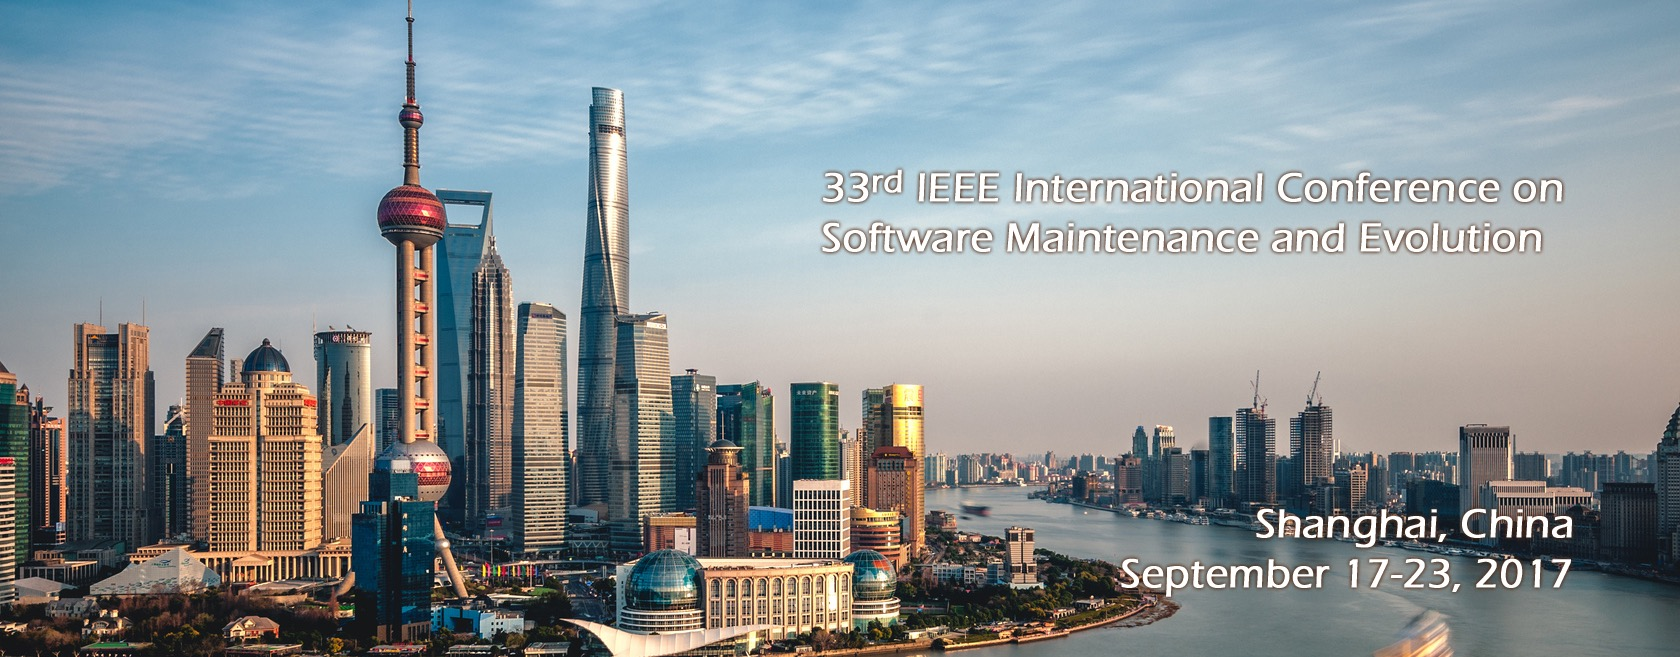
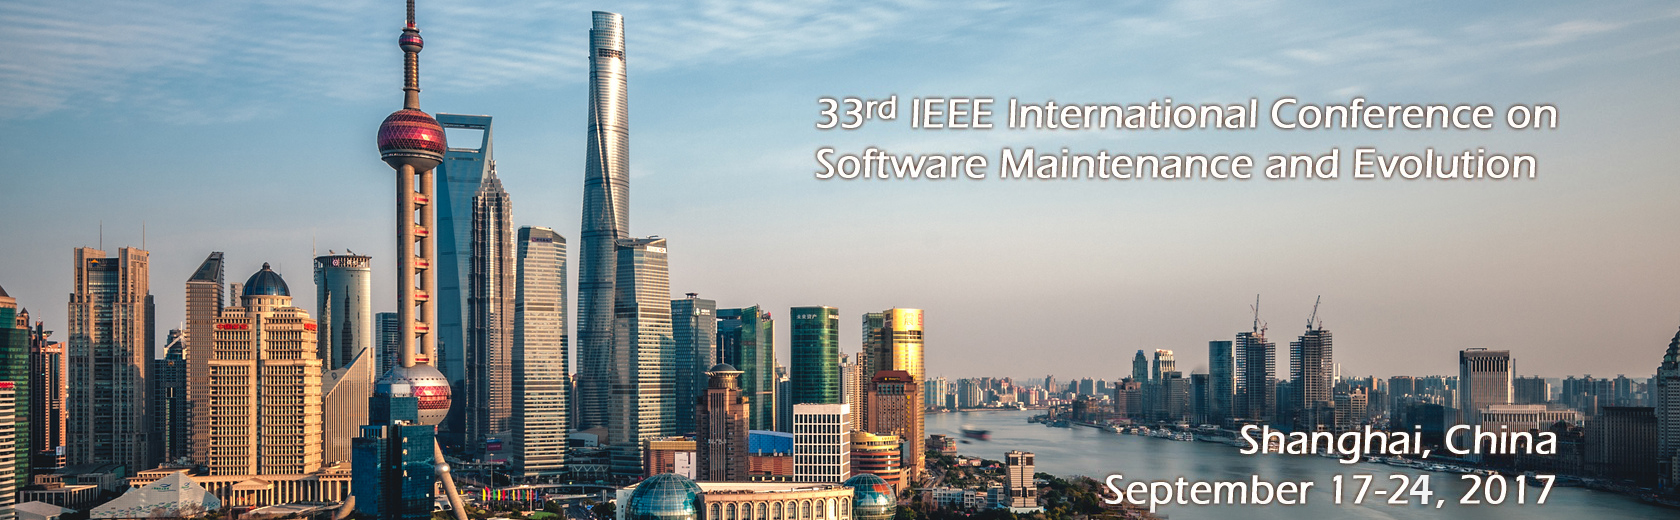
add internet ware week at a glance

diff --git a/index.html b/index.html
@@ -18,6 +18,8 @@
 
       font-weight:bold;
 
+      text-align:left;
+
     }
 
     .newscontentcol {
@@ -26,10 +28,18 @@
 
       padding-left:8px;
 
+      text-align:left;
+
     }
 
   </style>
+<style type="text/css">
+td {
+      text-align:center; /*设置水平居中*/
+      vertical-align:middle !important;/*设置垂直居中*/
+}
 
+</style>
   <script src="jquery/1.11.1/jquery.min.js"></script>
 
   <script src="bootstrap/3.3.0/js/bootstrap.min.js"></script>
@@ -300,11 +310,46 @@
 
 
 
-  <img src="ICSME/001.jpg" class="img-responsive" alt="Responsive image">
+  <img src="ICSME/001.jpg" class="img-responsive " alt="Responsive image">
+  <table class="table table-bordered table-condensed" style="margin-top:5px;font-size:small;">
+            
+            <thead> 
+              
+              <tr>
+                <th class="text-center">Sun 9/17</th>
+                <th class="text-center">Mon 9/18</th>
+                <th class="text-center">Tue 9/19</th>
+                <th class="text-center">Wed 9/20</th>
+                <th class="text-center">Thu 9/21</th>
+                <th class="text-center">Fri 9/22</th>
+                <th class="text-center">Sat 9/23</th>
+                <th class="text-center">Sun 9/24</th>
+              </tr>
+              <tr>
+                <td colspan="2" align="center"><a href="http://www.ieee-scam.org/2017/" target="_blank">SCAM</a></td>
+                <td align="center"><a href="cfp/DoctoralSymposiumCFP.html">Doctoral<br>
+                    Symposium</a>
+                </td>
+                <td colspan="3" rowspan="2" align="center">
+                    ICSME
+                </td>
+                <td rowspan="2" align="center">
+                    <a href="http://www.se.fudan.edu.cn/events/Internetware2017" target="_blank">Internetware</a>
+                </td>
+                <td colspan="3" rowspan="2" align="center" >
+                    China SE<br>
+                    Research and<br>
+                    Industry Summit
+                </td>
+              </tr>
+              <tr>
+                <td></td>
+                <td colspan="2" align="center"><a href="http://vissoft17.dcc.uchile.cl/" target="_blank">VISSOFT</a></td>
+              </tr>
+            </thead>
+          </table>
 
-  <br>
 
-  <br>
 
 
 
@@ -338,9 +383,25 @@
 
                 <tr>
 
+                  <td class="newsdatecol">2017-3-3</td>
+
+                  <td class="newscontentcol"><a href="http://www.se.fudan.edu.cn/events/Internetware2017/" target="_blank">Internetware2017</a> is co-located with ICSME.</td>
+
+                </tr>
+
+                <tr>
+
+                  <td class="newsdatecol">2017-3-3</td>
+
+                  <td class="newscontentcol">China SE Research and Industry Summit is co-located with ICSME.</td>
+
+                </tr>   
+
+                <tr>
+
                   <td class="newsdatecol">2017-2-3</td>
 
-                  <td class="newscontentcol"><a href="cfp/ArtifactsTrackCFP.html">Artifacts Track CFP</a> is available!</td>
+                  <td class="newscontentcol"><a href="cfp/ArtifactsTrackCFP.html" target="_blank">Artifacts Track CFP</a> is available!</td>
 
                 </tr>               
 
@@ -348,7 +409,7 @@
 
                   <td class="newsdatecol">2017-2-3</td>
 
-                  <td class="newscontentcol"><a href="cfp/IndustryTrackCFP.html">Industry Track CFP</a> is available!</td>
+                  <td class="newscontentcol"><a href="cfp/IndustryTrackCFP.html" target="_blank">Industry Track CFP</a> is available!</td>
 
                 </tr>
 
@@ -356,7 +417,7 @@
 
                   <td class="newsdatecol">2016-12-7</td>
 
-                  <td class="newscontentcol"><a href="cfp/DoctoralSymposiumCFP.html">Doctoral Symposium CFP</a> is available!</td>
+                  <td class="newscontentcol"><a href="cfp/DoctoralSymposiumCFP.html" target="_blank">Doctoral Symposium CFP</a> is available!</td>
 
                 </tr>
 
@@ -364,7 +425,7 @@
 
                   <td class="newsdatecol">2016-12-1</td>
 
-                  <td class="newscontentcol"><a href="cfp/NIERTrackCFP.html">NIER Track CFP</a> is available!</td>
+                  <td class="newscontentcol"><a href="cfp/NIERTrackCFP.html" target="_blank">NIER Track CFP</a> is available!</td>
 
                 </tr>
 
@@ -372,7 +433,7 @@
 
                   <td class="newsdatecol">2016-11-28</td>
 
-                  <td class="newscontentcol"><a href="cfp/ResearchTrackCFP.html">Research Track CFP</a> is available!</td>
+                  <td class="newscontentcol"><a href="cfp/ResearchTrackCFP.html" target="_blank">Research Track CFP</a> is available!</td>
 
                 </tr>
 
@@ -380,7 +441,7 @@
 
                   <td class="newsdatecol">2016-10-18</td>
 
-                  <td class="newscontentcol"><a href="cfp/ToolDemoCFP.html">Tool Demo Track CFP</a> is available!</td>
+                  <td class="newscontentcol"><a href="cfp/ToolDemoCFP.html" target="_blank">Tool Demo Track CFP</a> is available!</td>
 
                 </tr>
 

diff --git a/OpenSciencePractices.html b/OpenSciencePractices.html
@@ -1,0 +1,53 @@
+<!DOCTYPE html>
+<html lang="en">
+<head>
+  <title>ICSME 2017</title>
+  <link rel="stylesheet" href="../bootstrap/3.3.0/css/bootstrap.min.css">
+  <script src="../jquery/1.11.1/jquery.min.js"></script>
+  <script src="../bootstrap/3.3.0/js/bootstrap.min.js"></script>
+  <script src="../bootstrap-hover-dropdown/2.0.10/bootstrap-hover-dropdown.min.js"></script>
+</head>
+<body>
+  <script src="../loadhead.js"></script>
+  <script>loadheaderexecute(2);</script>
+
+<div class="container"> 
+
+  <img src="../ICSME/001.jpg" class="img-responsive" alt="Responsive image">
+</div>
+
+  
+<div class="container">
+  <div class="row">
+    <div class="col-md-12">
+          <h2>Open Science Practices</h2>
+          <p style="text-align:justify;"><i>&nbsp &nbsp These guidelines are adapted from the Open Science Practices of the <a href="http://www.chaseresearch.org/workshops">CHASE Workshop series</a>.</i></p>
+          <p style="text-align:justify;">&nbsp &nbsp We encourage authors to use open science practices to make their research and data accessible to anybody in the world. Here are guidelines and recommendations for open access, open data, and open source.</p>
+          <p style="text-align:justify;">&nbsp &nbsp The following guidelines <u>are recommendations and not mandatory</u>. Your choice to use open science will not affect the review process for your paper.</p>
+          <h3>Open Access</h3>
+          <p style="text-align:justify;">&nbsp &nbsp We encourage authors to self-archive their pre- and post-prints in open, preserved repositories. This is legal and allowed by all major publishers including <a href="https://rchive.it/#association+for+computing+machinery-21">ACM</a> and <a href="https://rchive.it/#institute+of+electrical+and+electronics+engineers">IEEE</a> (granted in the copyright transfer agreement), and it lets anybody in the world reach your paper.</p>
+          <p style="text-align:justify;">&nbsp &nbsp If the authors of your paper wish to do this, we recommend:</p>
+          <ul>
+            <li>Upon acceptance, revise your article according to the peers' comments, generate a PDF version, and submit your paper to <a href="https://arxiv.org/">arXiv.org</a> and choose the <a href="https://arxiv.org/licenses/nonexclusive-distrib/1.0/license.html">arXiv.org perpetual, non-exclusive license to distribute</a>. </li>
+          </ul>
+          <p style="text-align:justify;">&nbsp &nbsp Note that you are not allowed to self-archive the PDF of the published article, that is, the PDF that you can find in IEEE Xplore. Only self-archive your own generated PDFs. </p>
+          <p style="text-align:justify;">&nbsp &nbsp We encourage you to use a preserved, archived repository instead of your personal website. Personal websites are prone to changes and errors, and <a href="http://onlinelibrary.wiley.com/doi/10.1002/asi.10018/abstract;jsessionid=27835D49DD25800DCA61C74307CDD0C9.f04t01">more than 30% of them will not work in a 4 years period</a>.</p>
+          <h3>Open Data and Open Source</h3>
+          <p style="text-align:justify;">&nbsp &nbsp We encourage authors of accepted papers to make their data public, in order to enhance the transparency of the process and the reproducibility of the results.</p>
+          <p style="text-align:justify;">&nbsp &nbsp If the authors of your paper wish to do this, we recommend:</p>
+          <ul>
+            <li>Archive their data on preserved archives such as <a href="https://zenodo.org/">zenodo.org</a> and <a href="https://figshare.com/">figshare.com</a>, so that the data will receive a DOI and become citable.</li>
+            <li>Use the <a href="https://wiki.creativecommons.org/wiki/CC0">CC0 dedication</a> when publishing the data (automatic when using zenodo and figshare), as <a href="https://wiki.creativecommons.org/wiki/CC0_use_for_data">explained on the Creative Commons site</a>.</li>
+          </ul>
+          <p style="text-align:justify;">&nbsp &nbsp We encourage authors to make their research software accessible as <a href="https://guides.github.com/activities/citable-code/">open source and citable</a>.</p>
+          <p style="text-align:justify;">&nbsp &nbsp We encourage you to avoid putting data and source on your own personal websites or services intended for generic file sharing, since <a href="http://onlinelibrary.wiley.com/resolve/doi?DOI=10.1002/asi.10018">more than 30% of them will not work in a 4 years period</a>.</p>
+
+          <br>
+          <hr>
+    </div>
+      
+  </div>
+ 
+</div>
+</body>
+</html>

diff --git a/cfp/OpenSciencePractices.html b/cfp/OpenSciencePractices.html
@@ -1,0 +1,53 @@
+<!DOCTYPE html>
+<html lang="en">
+<head>
+  <title>ICSME 2017</title>
+  <link rel="stylesheet" href="../bootstrap/3.3.0/css/bootstrap.min.css">
+  <script src="../jquery/1.11.1/jquery.min.js"></script>
+  <script src="../bootstrap/3.3.0/js/bootstrap.min.js"></script>
+  <script src="../bootstrap-hover-dropdown/2.0.10/bootstrap-hover-dropdown.min.js"></script>
+</head>
+<body>
+  <script src="../loadhead.js"></script>
+  <script>loadheaderexecute(2);</script>
+
+<div class="container"> 
+
+  <img src="../ICSME/001.jpg" class="img-responsive" alt="Responsive image">
+</div>
+
+  
+<div class="container">
+  <div class="row">
+    <div class="col-md-12">
+          <h2>Open Science Practices</h2>
+          <p style="text-align:justify;"><i>&nbsp &nbsp These guidelines are adapted from the Open Science Practices of the <a href="http://www.chaseresearch.org/workshops">CHASE Workshop series</a>.</i></p>
+          <p style="text-align:justify;">&nbsp &nbsp We encourage authors to use open science practices to make their research and data accessible to anybody in the world. Here are guidelines and recommendations for open access, open data, and open source.</p>
+          <p style="text-align:justify;">&nbsp &nbsp The following guidelines <u>are recommendations and not mandatory</u>. Your choice to use open science will not affect the review process for your paper.</p>
+          <h3>Open Access</h3>
+          <p style="text-align:justify;">&nbsp &nbsp We encourage authors to self-archive their pre- and post-prints in open, preserved repositories. This is legal and allowed by all major publishers including <a href="https://rchive.it/#association+for+computing+machinery-21">ACM</a> and <a href="https://rchive.it/#institute+of+electrical+and+electronics+engineers">IEEE</a> (granted in the copyright transfer agreement), and it lets anybody in the world reach your paper.</p>
+          <p style="text-align:justify;">&nbsp &nbsp If the authors of your paper wish to do this, we recommend:</p>
+          <ul>
+            <li>Upon acceptance, revise your article according to the peers' comments, generate a PDF version, and submit your paper to <a href="https://arxiv.org/">arXiv.org</a> and choose the <a href="https://arxiv.org/licenses/nonexclusive-distrib/1.0/license.html">arXiv.org perpetual, non-exclusive license to distribute</a>. </li>
+          </ul>
+          <p style="text-align:justify;">&nbsp &nbsp Note that you are not allowed to self-archive the PDF of the published article, that is, the PDF that you can find in IEEE Xplore. Only self-archive your own generated PDFs. </p>
+          <p style="text-align:justify;">&nbsp &nbsp We encourage you to use a preserved, archived repository instead of your personal website. Personal websites are prone to changes and errors, and <a href="http://onlinelibrary.wiley.com/doi/10.1002/asi.10018/abstract;jsessionid=27835D49DD25800DCA61C74307CDD0C9.f04t01">more than 30% of them will not work in a 4 years period</a>.</p>
+          <h3>Open Data and Open Source</h3>
+          <p style="text-align:justify;">&nbsp &nbsp We encourage authors of accepted papers to make their data public, in order to enhance the transparency of the process and the reproducibility of the results.</p>
+          <p style="text-align:justify;">&nbsp &nbsp If the authors of your paper wish to do this, we recommend:</p>
+          <ul>
+            <li>Archive their data on preserved archives such as <a href="https://zenodo.org/">zenodo.org</a> and <a href="https://figshare.com/">figshare.com</a>, so that the data will receive a DOI and become citable.</li>
+            <li>Use the <a href="https://wiki.creativecommons.org/wiki/CC0">CC0 dedication</a> when publishing the data (automatic when using zenodo and figshare), as <a href="https://wiki.creativecommons.org/wiki/CC0_use_for_data">explained on the Creative Commons site</a>.</li>
+          </ul>
+          <p style="text-align:justify;">&nbsp &nbsp We encourage authors to make their research software accessible as <a href="https://guides.github.com/activities/citable-code/">open source and citable</a>.</p>
+          <p style="text-align:justify;">&nbsp &nbsp We encourage you to avoid putting data and source on your own personal websites or services intended for generic file sharing, since <a href="http://onlinelibrary.wiley.com/resolve/doi?DOI=10.1002/asi.10018">more than 30% of them will not work in a 4 years period</a>.</p>
+
+          <br>
+          <hr>
+    </div>
+      
+  </div>
+ 
+</div>
+</body>
+</html>

diff --git a/cfp/ResearchTrackCFP.html b/cfp/ResearchTrackCFP.html
@@ -21,6 +21,7 @@
     <div class="col-md-12">
           <h2>Research Track - Call for Papers </h2>
           <hr>
+          <h3><a href="OpenSciencePractices.html">Open Science Practices</a></h3>
           <h3>Goal and Scope</h3>
           <p style="text-align:justify;">&nbsp &nbsp ICSME is the premier forum for researchers and practitioners to present and discuss the most recent innovations, trends, experiences, and challenges in software maintenance and evolution. We invite high quality submissions describing significant, original, and unpublished results related to but not limited to any of the following software maintenance and evolution topics (in alphabetical order):</p>
           <ul>
@@ -96,6 +97,12 @@
           <p style="text-align:justify;">&nbsp &nbsp Please see the <a href="DB_FAQ.html">Double-Blind Reviewing FAQ</a> for more information and guidance.</p>
           <p style="text-align:justify;">&nbsp &nbsp Submissions must be formatted according to the <a href="formatting-instructions.html">ICSME 2017 Formatting Instructions</a>. Papers must not exceed 10 pages (including figures and appendices) plus up to 2 pages that contain ONLY references. All submissions must be in PDF and must be submitted online by the deadline via the ICSME 2017 <a href="https://easychair.org/conferences/?conf=icsme2017">EasyChair</a> conference management system. All authors, reviewers, organizers are expected to uphold the <a href="https://www.ieee.org/about/ieee_code_of_conduct.pdf">IEEE Code of Conduct</a>.</p>
           <p style="text-align:justify;">&nbsp &nbsp Authors of selected papers from the research track will be invited to submit extended versions of their work to a special issue of the Springer international journal of <a href="http://link.springer.com/journal/10664">Empirical Software Engineering (EMSE)</a>. Authors of selected papers will be expected to comply with the standard guidelines when publishing an extended version of a paper, including the addition of about 30% new material. </p>
+
+          <h3>Notes</h3>
+          <p style="text-align:justify;">&nbsp &nbsp <b>Note about GitHub research.</b> If your research includes scraped GitHub data, the <a href="https://help.github.com/articles/github-terms-of-service/">GitHub Terms of Service</a> require that “publications resulting from that research are open access”. ICSME supports and encourages Green Open Access (see below).
+          </p>
+          <p style="text-align:justify;">&nbsp &nbsp <b>Note about open access.</b> ICSME supports and encourages Green Open Access also called self-archiving (see Open Science Practices), that is, you as an author archive a version of the paper yourself at your personal home page, at an institutional repository of your employer, or at an e-print server such as <a href="https://arxiv.org/">arXiv</a> (preferred). Open access increases the availability of your work and <a href="http://journals.plos.org/plosone/article?id=10.1371/journal.pone.0013636">increases citation impact for higher quality research</a>. To learn more about open access, please read the <a href="https://avandeursen.com/2016/11/06/green-open-access-faq/">Green Open Access FAQ</a> by Arie van Deursen.
+          </p>
 
           <h3>Important Dates</h3>
           <p>&nbsp &nbsp Abstract submission: Thursday, March 30, 2017</p>

diff --git a/loadhead.js b/loadhead.js
@@ -8,6 +8,8 @@ if (level==1) {
 	var Programurl = "ToBeAnnounced.html";
 	var Socialurl = "ToBeAnnounced.html";
 
+	
+
 	var ResearchTrackCFP = "cfp/ResearchTrackCFP.html";
 	var ERATrackCFP = "cfp/NIERTrackCFP.html";
 	var IndustryTrackCPF = "cfp/IndustryTrackCFP.html";
@@ -24,6 +26,8 @@ else {
 	var Registrationurl = "../ToBeAnnounced.html";
 	var Programurl = "../ToBeAnnounced.html";
 	var Socialurl = "../ToBeAnnounced.html";
+
+	
 
 	var ResearchTrackCFP = "ResearchTrackCFP.html";
 	var ERATrackCFP = "NIERTrackCFP.html";
@@ -46,7 +50,7 @@ var navbarcollapseul = $('<ul class="nav navbar-nav navbar-right" id="id_navbaru
 var li_registration = $('<li><a href="'+Registrationurl+'">Registration</a></li>');
 navbarcollapseul.append(li_registration);
 
-var li_program = $('<li><a href="'+Programurl+'">Program</a></li>');
+var li_program = $('<li><a href="'+Programurl+'">Program</a></li>');  
 navbarcollapseul.append(li_program);
       
 
@@ -61,8 +65,10 @@ li_cfp.find('ul').append('<li><a href="'+DoctoralCFP+'">Doctoral Symposium</a></
 navbarcollapseul.append(li_cfp);        
           
 var li_coevents = $('<li class="dropdown"><a href="#" class="dropdown-toggle" data-toggle="dropdown" data-hover="dropdown">Co-Located Events<span class="caret"></span></a><ul class="dropdown-menu" role="menu"></ul></li>');       
-li_coevents.find('ul').append('<li><a href="http://www.ieee-scam.org/2017/">SCAM</a></li>');
-li_coevents.find('ul').append('<li><a href="http://vissoft17.dcc.uchile.cl">VISSOFT</a></li>');
+li_coevents.find('ul').append('<li><a href="http://www.ieee-scam.org/2017/" target="_blank">SCAM</a></li>');
+li_coevents.find('ul').append('<li><a href="http://vissoft17.dcc.uchile.cl" target="_blank">VISSOFT</a></li>');
+li_coevents.find('ul').append('<li><a href="http://www.se.fudan.edu.cn/events/Internetware2017" target="_blank">Internetware</a></li>');
+li_coevents.find('ul').append('<li><a href="#">China SE Research and Industry Summit</a></li>');
 navbarcollapseul.append(li_coevents); 
 
 var li_sevents = $('<li><a href="'+Socialurl+'">Social Events</a></li>');  
@@ -84,4 +90,9 @@ navpartcontainer.append(navbarcollapse);
 navpart.append(navpartcontainer);
 
 $('body').append(navpart);
+
+
+
 };
+
+
